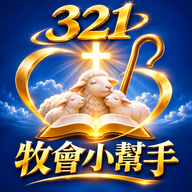
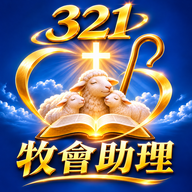
更名為牧會助理 v1.3.2，換上新圖示
Claude-Session: https://claude.ai/code/session_01WJZ14fZmbY3VX31F2k74JD

diff --git a/sw.js b/sw.js
@@ -1,4 +1,4 @@
-var VER='1.3.1';
+var VER='1.3.2';
 var CACHE='pca-'+VER;
 var SHELL=['./','index.html','manifest.json','icon-192.png','icon-180.png','icon-512.png','logo.png'];
 self.addEventListener('install',function(e){

diff --git a/README.md b/README.md
@@ -1,4 +1,4 @@
-# 321牧會小幫手 v1.3.1（第一階段）
+# 321牧會助理 v1.3.2（第一階段）
 上傳全部檔案到同一個 GitHub Pages 資料夾（index.html、sw.js、manifest.json、version.json、icon-*.png）。
 改版時三處版本號要一致：index.html 的 APPVER、sw.js 的 VER、version.json。
 上線前請核對：和合本經文、台灣專線號碼、中繼站模型名稱（設定 > 小智 > 進階）。
